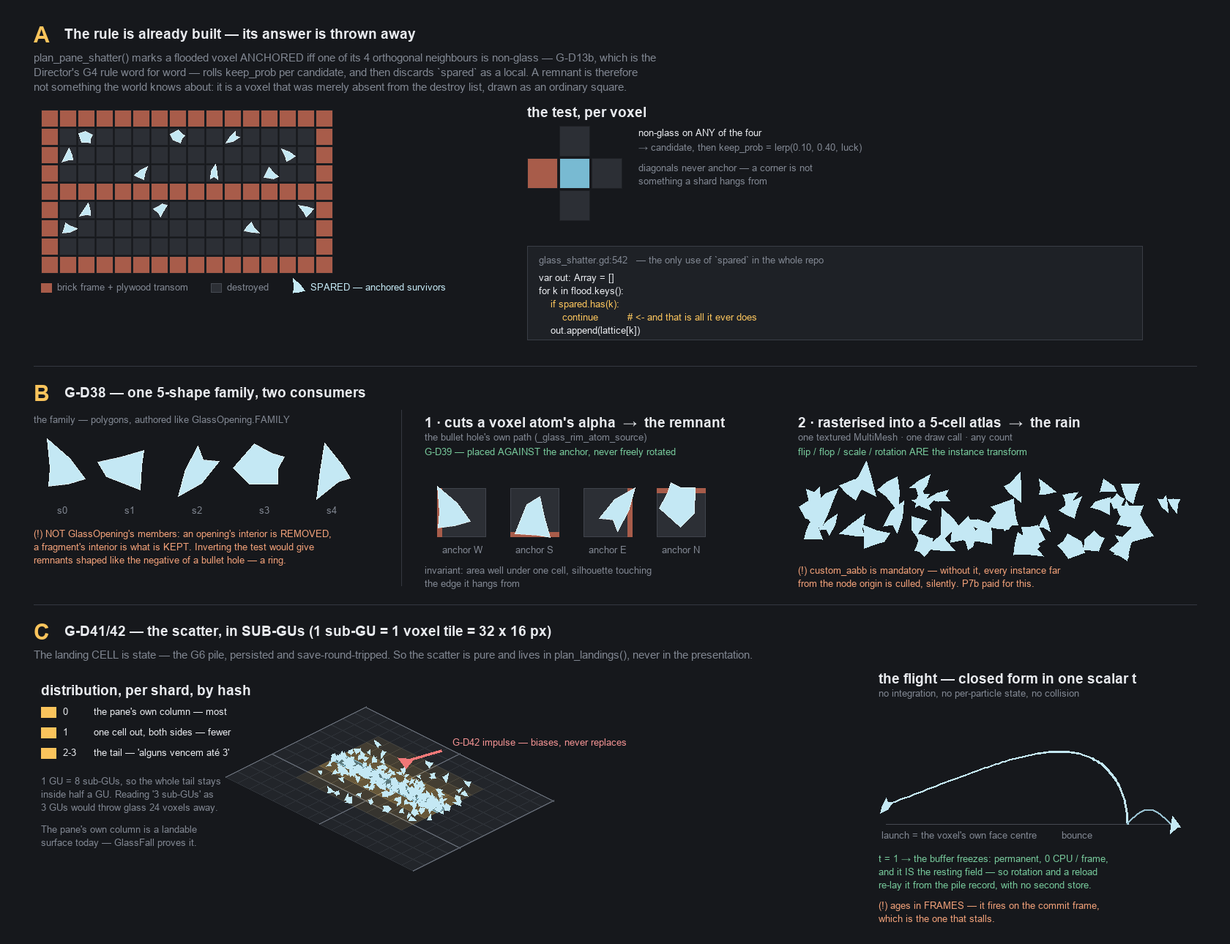
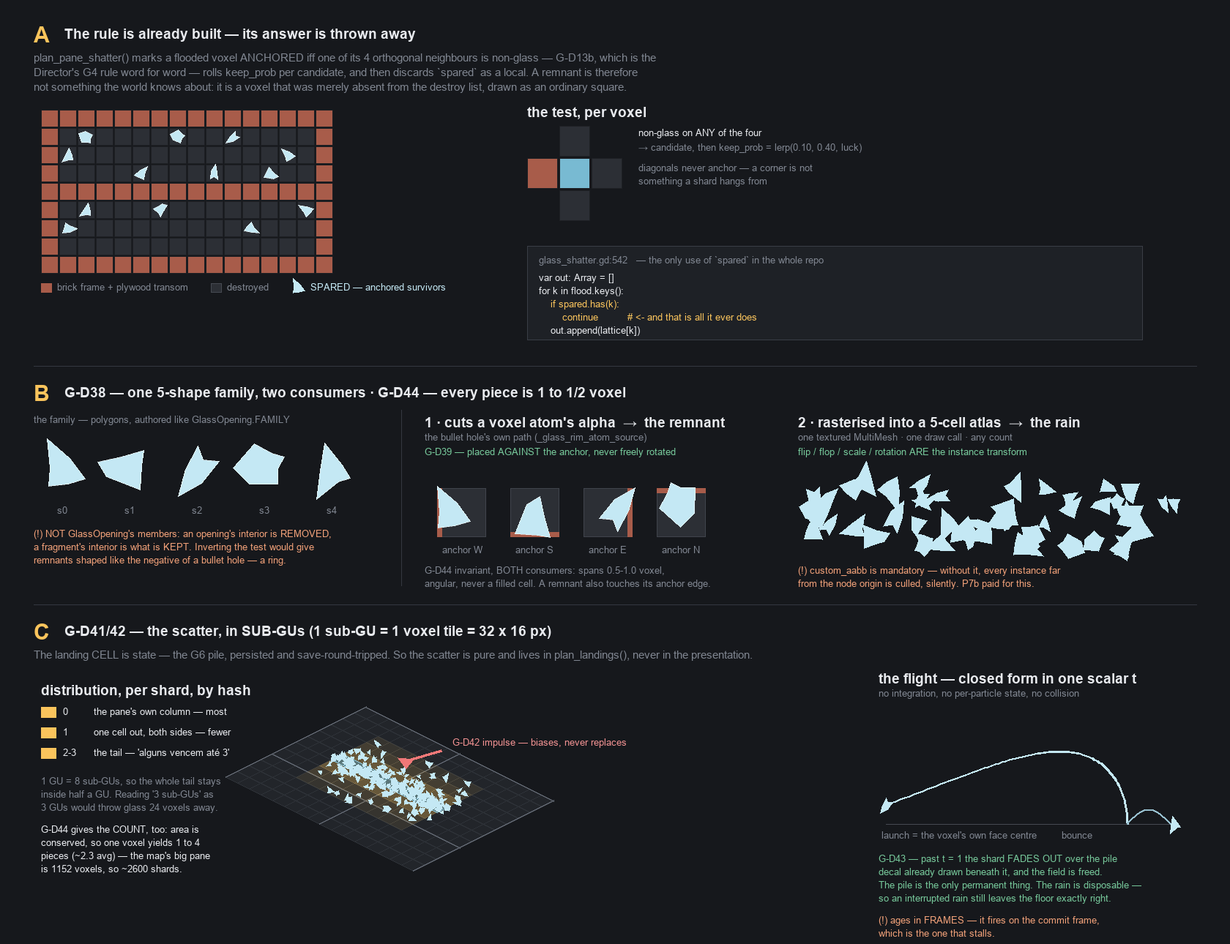
[GLASS-G4-PLAN] Glass — the pile is the only permanent thing (G-D43/G-D44)
Both of §18.7's open questions, answered by the Director the same day. Plan
only, no behaviour change.

G-D43 — "os cacos caem no chão, apagam e revelam um sprite padrão por trás".
This resolves the two-authorities question by DELETING a claim rather than
reconciling: G6's pile decal is the sole record of "there is broken glass
here", and the shard field is a transient that fades out over it and is freed.
It supersedes G-D40's persistence half — my proposal was to freeze the field
at t = 1 and re-lay it from the pile record on every rotation and reload,
which was correct but left two descriptions of one floor. The decal is drawn
UNDER the field at landing, at final opacity, so a rain cut short by a stall,
an off-screen pane or a perf budget still leaves the floor exactly right; the
rain therefore has no state consequence at all and can be skipped entirely.
What survives of G-D40 is the hash, now a testability choice: a randf()-driven
field cannot host a pixel gate, which is why glass_blast_demo has none.

G-D44 — "não precisam existir mais cacos grandes… partes com tamanhos entre 1
e 1/2 voxel". Supersedes G-D25 outright; nothing was built for it, and the
PRIMITIVE it named (an alpha mask carving a voxel's own silhouette) is not what
was dropped — that shipped as CRACK-03's rim and §18.3 reuses it. And it is not
a subtraction: conserving area, a 0.5-1.0 voxel piece means 1 to 4 pieces per
destroyed voxel (~2.3 avg, so ~2600 for the map's big pane), so the population
[…]

diff --git a/PROMPTS/PLANNING/GLASS_MASTER_PLAN.md b/PROMPTS/PLANNING/GLASS_MASTER_PLAN.md
@@ -1,6 +1,24 @@
 # GLASS MASTER PLAN — the physics of glass
 
-**Status:** 🟢 v1.39 — **G4 + THE SHARD RAIN ARE PLANNED, NOT BUILT (§18)**.
+**Status:** 🟢 v1.40 — **G4 + THE SHARD RAIN ARE PLANNED, NOT BUILT (§18), AND
+BOTH OPEN QUESTIONS ARE CLOSED (2026-09-05).**
+
+**G-D43 — the pile is the only permanent thing; the rain is disposable.** The
+shards fall, fade out over the G6 pile decal already drawn beneath them, and are
+freed. ⚠ This RESOLVES a two-authorities question by DELETING a claim, not by
+reconciling: the decal is the sole record of "there is broken glass here". ⚠ It
+also makes the whole effect safe to interrupt — a rain cut short by a stall, an
+off-screen pane or a perf budget still leaves the floor exactly right — so the
+rain can be skipped entirely, which is worth more than the permanence it replaces.
+
+**G-D44 — no big shards; every piece is between 1 and 1/2 voxel.** Supersedes
+G-D25 outright (never built, so nothing to delete; the PRIMITIVE it named still
+ships as CRACK-03's rim). ⚠ And it is not a subtraction — conserving area, a
+0.5-1.0 voxel piece means **1 to 4 pieces per destroyed voxel**, so the
+population is a consequence of the ruling instead of a knob. It also unifies the
+size law across G-D38's two consumers.
+
+Earlier in v1.39 —
 ⚠ **The finding that shapes the whole build: G4's RULE is already implemented and
 its answer is thrown away.** `plan_pane_shatter()` computes `spared` — G-D13b's
 anchored survivors, which is word for word the Director's *"voxels de vidro
@@ -12,9 +30,10 @@ The mechanism: **one 5-member polygon family with two consumers** (G-D38) — it
 cuts a voxel atom's alpha for a remnant stuck in the frame, and is rasterised
 into a 5-cell atlas for the falling shards, one textured MultiMesh, one draw
 call, where flip/flop/scale/rotation are free because they are the instance
-transform. The rain is a **pure function of G6's landing record** (G-D40), so
+transform. ~~The rain is a pure function of G6's landing record (G-D40), so
 rotation and a save reload re-lay it with no second store, and the resting field
-IS the animation at `t = 1` — permanent, zero per-frame CPU. The shockwave
+IS the animation at `t = 1` — permanent.~~ ⛔ **Superseded the same day by G-D43
+above: the rain does not rest.** The shockwave
 (G-D42) biases the LANDING CELL, which is state, so it lives in `plan_landings()`
 and not in the presentation.
 
@@ -403,7 +422,7 @@ just not the target case.
 | **G-D21** | **THE CRACK IS A FACADE SHEET RE-ANCHORED ONTO THE IMPACT — supersedes G-D20's tile mosaic.** *"essa ideia de fazer a grade e montar o mosaico, me parece que é essencialmente o que o baking system já faz […] gerar uma facade bem maior que as convencionais, com o furo baked no centro. E na hora que o tiro acerta a janela, ela tem margem pra 'sangrar' e ser reposicionada dentro da janela, cobrindo o voxel que foi acertado."* Correct, and it reduces to a SUBTRACTION: `_compute_facade_key()` already keys a voxel by `(column_in_run, level)` relative to the run's own origin, so "reposition the sheet" is offsetting those two numbers by (impact − sheet centre). No new mechanism, no new anchor unit, and — unlike a per-event mosaic — **the atoms are all composed once at load**, because the crack ART is fixed and only the OFFSET moves. A shot changes which atom each voxel picks; it mints nothing | ✅ Ratified 2026-09-01 · ⚠ **AMENDED 2026-09-02 (§8.2): the mechanism is WORLD-SPACE sampling, not the `_compute_facade_key()` atom offset.** The "reduces to a subtraction" insight survives verbatim — it is now a subtraction inside `texture(fracture, v_glass_world − impact)` in the glass shader, ~2 MB and 0 atoms, because glass never rides the baked wall path. "Mints nothing" survives; "composed once at load" becomes "not composed at all". CRACK-01 §B |
 | **G-D23** | **NO MIRROR FOR THE CRACK FAMILY, AND A PANE HAS A MAXIMUM SIZE.** *"Vamos com a 3, tira o espelho dessa família. E aí convencionamos que toda vidraça vai ter um tamanho máximo. Que é o padrão real mesmo, nenhuma janela é infinita. Precisando, usa-se um frame divisório e começa outra vidraça."* The crack sheet clamps at its edge instead of mirroring, so beyond it there is simply NO crack — the physically right answer, and the one that cannot invent a second false fracture. The maximum pane is then DERIVED from the sheet rather than invented: **64 × 32 voxels = 8 GU × 4 storeys**, which makes *"a centred hit can crack the whole pane"* a guarantee. maps/GLASS.map.json's big pane (6 GU × 3 storeys) already fits. Anything larger is authored as two panes with a divider — a **NON-GLASS panel at the middle GU, or a gap**. ⚠ A G-D9 `bands` entry does NOT split a pane (measured — see below); a banded window is still base-glass and the union-find joins it to its neighbours anyway | ✅ Ratified 2026-09-01 |
 | **G-D24** | **WHERE TWO FRACTURES CROSS, THE GLASS FALLS OUT.** *"Realisticamente falando, um segundo tiro iria quebrar regiões com cruzamentos de rachaduras, então destruir os voxels que se encontram também é uma opção."* A voxel already carrying a crack, reached by a SECOND fracture, becomes DESTROYED. This replaces the "nearest impact wins" tiebreak proposed a turn earlier and is better on every axis: physically right (crossed cracks drop the piece), free (DESTROYED is what the engine does natively — no per-voxel crack-source int, no compositing of two sheets ever), and it gives a second shot a real mechanical identity instead of a cosmetic one — the first shot crazes, the second opens a hole along the intersection. The freed voxels then fall and pile through G-D16a like any other break | ✅ Ratified 2026-09-01 |
-| **G-D25** | **A BIG SHARD IS A CUT SILHOUETTE ON WHOLE VOXELS, NOT A TEXTURE.** *(Director, 2026-09-02: "podem ter cacos maiores porém, com o tamanho de um voxel ou até mais: uma união de 2, 3, 4 voxels, em formatos diferentes, que nem precisam de textura específica, mas sim um shape recortado, nos moldes que usamos para fazer os voxels dented de teto, usando um alpha pra criar a máscara no voxel inteiro.")* The `shard` DECAL (G-D16b, delivered 2026-09-02) stays exactly what it is and the Director ratified its read the same day — **a shimmering white noise is the expected result at 16 × 20 px, not a shortfall**; it is the fine debris. What it cannot be is a big piece, because a decal is a mark ON a face and a large shard has a SILHOUETTE that is not the voxel's. So the big shards are a second, separate class: **an alpha mask cutting the whole voxel, the same mechanism as the DENTED CEILING voxel** (the Director's diagram — alpha bottom/top carves the cube's own outline rather than painting on it), spanning **1, 2, 3 or 4 voxels** in several shapes. **No per-shape texture:** the piece takes the material's ordinary glass surface and only its OUTLINE is authored, which is why the shape count is cheap. Build work belongs to G6 and is UNBUILT | ✅ Ratified 2026-09-02 · unbuilt |
+| **G-D25** | **A BIG SHARD IS A CUT SILHOUETTE ON WHOLE VOXELS, NOT A TEXTURE.** *(Director, 2026-09-02: "podem ter cacos maiores porém, com o tamanho de um voxel ou até mais: uma união de 2, 3, 4 voxels, em formatos diferentes, que nem precisam de textura específica, mas sim um shape recortado, nos moldes que usamos para fazer os voxels dented de teto, usando um alpha pra criar a máscara no voxel inteiro.")* The `shard` DECAL (G-D16b, delivered 2026-09-02) stays exactly what it is and the Director ratified its read the same day — **a shimmering white noise is the expected result at 16 × 20 px, not a shortfall**; it is the fine debris. What it cannot be is a big piece, because a decal is a mark ON a face and a large shard has a SILHOUETTE that is not the voxel's. So the big shards are a second, separate class: **an alpha mask cutting the whole voxel, the same mechanism as the DENTED CEILING voxel** (the Director's diagram — alpha bottom/top carves the cube's own outline rather than painting on it), spanning **1, 2, 3 or 4 voxels** in several shapes. **No per-shape texture:** the piece takes the material's ordinary glass surface and only its OUTLINE is authored, which is why the shape count is cheap. Build work belongs to G6 and is UNBUILT | ⛔ **SUPERSEDED 2026-09-05 by G-D44** — *"não precisam existir mais cacos grandes"*. Never built, so nothing to delete; the PRIMITIVE it named (an alpha mask carving a voxel's own silhouette) survives and is what CRACK-03/G-D31 shipped |
 | **G-D15** | **ARMORED GLASS (`glass_armored`, purple) — resists common shots; when breached, usually shatters entirely at once, leaving many individual shards.** ⚠ **Special rifle case:** a rifle round may pierce a SINGLE voxel without shattering (treated as a weak hit) — this PRIMES the pane, and the next shot of ANY type auto-shatters the whole thing. `pane_primed` is a per-pane flag, checkpoint-scoped | ✅ Ratified 2026-08-31 · build after this doc is signed off |
 | **G-D16** | **Glass is a family of tinted behaviour classes, not new geometry.** All variants share G1's rendering and differ only in a tint (`base_color`) and a `glass_class`: `glass` (blue, BREAKABLE) · `glass_armored` (purple, ARMORED, G-D15) · `glass_screen_{green,red,amber}` (dark terminal tone) which is **INDESTRUCTIBLE** (control interfaces — takes a crack decal, never breaks, and STOPS the round: *"trinca mas o tiro para"*) or **BREAKABLE** (TVs, circuits, news panels) per placement | ✅ Ratified 2026-08-31 |
 | **G-D17** | **A screen is a glass voxel over a BLACK PLASTIC voxel.** *"O voxel de vidro fica na frente de voxels pretos de PLÁSTICO (a implementar — fura [não atravessa] ou derrete), de forma que nesses voxels pretos vamos pintar as imagens e textos posteriormente, e o vidro vai criar o efeito de brilho por cima."* New material **`plastic`** (black): a round DRILLS it (a hole, but the round does NOT pass through — unlike glass) or fire MELTS it. Images/text painted onto the plastic later; the glass in front adds the G1 sheen. Belongs in `MATERIALS_MASTER_PLAN` | ✅ Ratified 2026-08-31 · `plastic` + the paint layer are deferred |
@@ -413,9 +432,11 @@ just not the target case.
 | **G-D36** | **A CRAZED PANE STILL LETS SIGHT THROUGH — WITH A LARGE PENALTY.** *(Director, 2026-09-05, answering §16.4: "vidro rachado ainda permite a visão, mas com uma penalidade grande.")* This is the `LIGHT_MASTER_PLAN` split doing its job: the pane keeps TRANSMITTING (G1's blend is untouched, the agent and the guard still see each other's side), and what degrades is TACTICAL visibility — the detection term through a crazed pane, not the pixels. ⚠ **It is a penalty, never a block**, which is the whole point: a binary "craze = opaque" would let one grenade delete a guard's sightline and turn the craze into a smoke wall, which is not what glass does. The magnitude is a balance number and belongs with G-D8's detection work, not with the art | ✅ Ratified 2026-09-05 |
 | **G-D38** | **ONE 5-MEMBER POLYGON FAMILY, TWO CONSUMERS.** *(Director, 2026-09-05: the remnant is built "nos mesmos moldes que usamos para fazer as aberturas das balas"; the debris is "só umas 5 shapes, onde vamos duplicar muitas vezes, dar flip, flop, scale up, scale down, rotation".)* Those are the SAME five shapes: the polygon cuts a voxel atom's alpha for a remnant stuck in the frame, and is rasterised once into a 5-cell atlas for the falling shards. ⚠ **It cannot be `GlassOpening` itself** — an opening's INTERIOR is removed and a fragment's interior is what is KEPT, so reusing those members with the test inverted gives remnants shaped like the negative of a bullet hole (a ring, or a cell with a star-shaped bite), the opposite of "irregulares e angulosos". New family, same authoring language. ⚠ **`MIN_VALLEY` does NOT carry over**: it exists so an opening swallows the cell it is centred on, and a remnant's invariant is the mirror image — area well under one cell, silhouette touching the edge it hangs from | 🟡 Planned 2026-09-05, §18.2 |
 | **G-D39** | **A REMNANT IS ORIENTED BY ITS ANCHOR, NEVER FREELY ROTATED.** The four-neighbour test that decided the voxel survives already says which side is solid; the shape is placed against it, and the pick key is `(shape, anchor_mask)`. A jagged fragment placed without regard to its anchor floats in the middle of the opening with its solid corner facing away from the brick — the detail that makes the feature read as decoration instead of physics. A two-sided (frame corner) anchor gets its own authored member rather than a rotation of a one-sided one | 🟡 Planned 2026-09-05, §18.3 |
-| **G-D40** | **THE RAIN IS A PURE FUNCTION OF G6'S LANDING RECORD, NOT A SECOND STORE.** Every shard's shape, flips, scale, spin, sub-cell offset and trajectory hash off `Vector3i(base_x, base_y, level)` + index. Consequences, all free: rotation re-lays the identical field; a save reload re-lays it; the ANIMATION and the RESTING field are one function at `t < 1` and `t = 1`; and "there is broken glass here" keeps exactly ONE authority. Answers the Director's *"se puder cair e ficar ótimo"* with **yes** — the frozen buffer is one draw call and zero per-frame CPU, not a fade-and-free | 🟡 Planned 2026-09-05, §18.4 |
+| **G-D40** | ⛔ **ITS PERSISTENCE HALF IS SUPERSEDED BY G-D43 (2026-09-05)** — the rain does not rest, so nothing about it needs to survive a rotation or a save. The DETERMINISM survives on its own smaller merit: a hash-driven field can be pixel-gated and a `randf()` one cannot, which is why `glass_blast_demo` is not pixel-deterministic today. Kept as written below for the record. ~~**THE RAIN IS A PURE FUNCTION OF G6'S LANDING RECORD, NOT A SECOND STORE.**~~ Every shard's shape, flips, scale, spin, sub-cell offset and trajectory hash off `Vector3i(base_x, base_y, level)` + index. Consequences, all free: rotation re-lays the identical field; a save reload re-lays it; the ANIMATION and the RESTING field are one function at `t < 1` and `t = 1`; and "there is broken glass here" keeps exactly ONE authority. Answers the Director's *"se puder cair e ficar ótimo"* with **yes** — the frozen buffer is one draw call and zero per-frame CPU, not a fade-and-free | 🟡 Planned 2026-09-05, §18.4 |
 | **G-D41** | **SUB-GU = ONE VOXEL CELL, AND EVERY DISTANCE IN THE BRIEF IS IN THOSE.** *(Director, 2026-09-05: "sub-GU is a Godot tile, where 1 voxel belongs. This is precisely the depth of the glass: 1 voxel.")* So the scatter is: most shards on the pane's own column, fewer one cell out, a tail reaching three — perpendicular to the pane BOTH ways and along the run. ⚠ Reading "3 sub-GUs" as 3 GUs would throw glass 24 voxels across the room. ⚠ **The landing cell is STATE** (the G6 pile, persisted and save-round-tripped), so the scatter is pure and lives in `plan_landings()`, never in the presentation layer | 🟡 Planned 2026-09-05, §18.5 |
 | **G-D42** | **THE SHOCKWAVE BIASES THE SCATTER, IT DOES NOT REPLACE IT.** *(Director, 2026-09-05: "uma força vetor que desloca todo o conjunto de cacos mais pra longe, baseado na força e na distância da granada… descrevendo uma suave parábola durante a queda".)* `plan_landings()` takes `{dir, strength, lift}` derived from the bomb's own `ring_multipliers` falloff — no second force model. At zero impulse G-D41's table is symmetric; a near grenade skews it downrange, further and wider. ⚠ **`lift` will be UNEXERCISED BY ANY REAL MAP**: G-D16c/d is unbuilt, CEILING glass renders opaque and has no horizontal `pane_id`, so no skylight can shatter yet. It is authored with a synthetic test and an explicit unbuilt-consumer note rather than quietly, so it does not become the fourth feature this project built and never triggered | 🟡 Planned 2026-09-05, §18.5 |
+| **G-D43** | **THE PILE IS THE ONLY PERMANENT THING; THE RAIN IS DISPOSABLE.** *(Director, 2026-09-05: "vamos padronizar a pilha no chão. Os cacos caem no chão, apagam e revelam um sprite padrão por trás.")* This RESOLVES §18.7(a) by removing a claim rather than reconciling two — the standing lesson. G6's pile decal is the sole authority for "there is broken glass here"; the shard field falls, fades out over it, and is freed. ⚠ **The decal is spawned UNDER the field at the moment of landing, at its final opacity, not faded in** — *"por trás"*, and it means a rain cut short by a stall, an off-screen pane or a perf budget still leaves the floor exactly right. **The rain therefore has NO state consequence at all** and can be skipped entirely, which is worth more than it looks with performance as the standing priority. ⚠ Consequence for G-D40: nothing about the field has to survive a rotation or a reload, so its hash-determinism is now a TESTABILITY choice (a pixel gate needs it) rather than a correctness one | ✅ Ratified 2026-09-05 |
+| **G-D44** | **NO BIG SHARDS — EVERY PIECE IS BETWEEN 1 AND 1/2 VOXEL.** *(Director, 2026-09-05: "não precisam existir mais cacos grandes, quando houver uma explosão que quebra o vidro, os cacos se subdividem todos em partes com tamanhos entre 1 e 1/2 voxel.")* Supersedes G-D25's 1-4-voxel cut silhouettes outright. **And it hands the population a law instead of a guess:** area is conserved, a piece of edge 0.5-1.0 has area 0.25-1.0, so one voxel yields **1 to 4 pieces**, ~2.3 on average — the map's 6 GU x 3 storey pane is 1 152 voxels and therefore ~2 600 shards, not an arbitrary `shards_per_voxel`. ⚠ **It also unifies the size law across G-D38's two consumers**: the remnant in the frame is a piece of the same band, so "well under one cell" is replaced by **0.5-1.0 voxel, angular, never a filled cell** — one rule, both consumers. On screen a shard is 16-32 px wide, which is large enough to read as a shape rather than as the noise the `decal_shard_glass_*` art is | ✅ Ratified 2026-09-05 |
 | **G-D37** | **THE COARSE CRAZE IS ITS OWN MESH, SIMILAR TO THE FINE ONE — NOT THE FINE ONE RESCALED.** *(Director, 2026-09-05, answering §16.4: "o rachado mais grosso precisa de uma malha diferente, mas pode ser parecida.")* §16.4 offered "a different mesh or the same one at a bigger scale" and noted the second was nearly free; the Director took the first, and the reason is visible in the reference photos — a coarse craze is not a fine craze zoomed in, its polygons are fewer AND blockier, and the line weight does not grow with them. **What "parecida" buys is that it is one generator with a second parameter set**, not a second vocabulary: same Voronoi body, same wrapping seed rule, same stroke, different cell count. ⚠ **The count of steps is TWO as a floor** (fine + coarse), which is the minimum reading of a ruling phrased about "o mais grosso"; a third middle step is the same generator a third time and stays the Director's, to be decided by looking at B-3's output rather than in advance | ✅ Ratified 2026-09-05 |
 | **G-D35** | **THE BLAST FAMILY IS A TILEABLE CRAZE MESH ON TWO AXES, PERFORATED PER VOXEL.** *(Director, 2026-09-04, with two references of shattered tempered glass: "as explosões ou vão destruir a vidraça toda, ou vão deixar rachado com maior ou menor intensidade, dependendo da distância […] conseguimos criar padrões mais e menos destruídos (usando o mesmo mecanismo de cortar as bordas dos voxels nas beiradas), e mais e menos rachados (granularidade) […] queremos que alguns decals sejam perfurados aleatoriamente em alguns voxels […] como são mais regulares, esses tipos de rachadura podem ser espelhados/repetidos com o método de azulejos, só mudando os buracos de lugar."* Four things follow, and each one is a departure from the bullet classes rather than a variation on them. **(1) NO CENTRE and no impact** — this is G-D29's field, so it is not radial and has no origin to be anchored to; the sheet is a MESH of small polygons, the read of the reference photos. **(2) TWO AXES, not one intensity dial** — *destruction* (how much of the pane is gone, expressed through the opening/shard-rim mechanism already built) and *granularity* (how fine the craze mesh is), and distance drives them together. **(3) PERFORATION IS PER VOXEL AND RANDOM**, not part of the art: the sheet is uniform, and individual voxels are punched through it. **(4) IT TILES.** A centred sheet cannot repeat; a uniform mesh can, so one page mirrored/repeated covers a whole pane and the variation comes from moving the HOLES, not from more art. ⚠ This is what makes the class cheap where the bullet classes were expensive — and it is also why `SPAN_RATIO`, the page centre and the origin gate in `check_decal.py` all fail to apply to it. 🔒 The reference photos are read for VOCABULARY only; delivery stays procedural (D57, and the same discipline §8's watermarked comps already imposed) | ✅ Ratified 2026-09-04 · UNBUILT |
 | **G-D29** | **`blast` IS 3 PATTERNS × H/V FLIP, HASHED PER PANEL.** *(Director, 2026-09-02: "vamos usar um conjunto de padrões nos painéis, digamos 3, que podem ser escolhidos aleatoriamente e flipados vertical e horizontal. Assim teremos uma variação legal, sem consumir quase nada a mais de memória.")* Three textures, twelve apparent variants. The choice is NOT new machinery: it comes from the B4 FNV-1a the destruction stack already uses (`FacadeSampler._fnv1a_hash` over `pane_id` + panel index), which makes it deterministic and replay-safe by the same rule as every other per-cell choice in the project — and the same hash yields the two flip bits for free. This is also the answer to *"stretch one sprite / tile a field / scatter several"*: none of the three; a small pool placed per panel | ✅ Ratified 2026-09-02 |
@@ -3390,9 +3411,12 @@ the opposite of *"formatos bem irregulares e angulosos"*. New file,
 would be a silent defect.** That constant exists because an opening must swallow
 the cell it is centred on (a destroyed voxel cannot keep its corners). A remnant
 is the reverse case: it must NOT fill its cell, or it reads as the square it is
-replacing. Its invariant is the mirror image — **every member's area is well
-under one cell and its silhouette touches at least one cell edge** (the edge it
-hangs from). Pinned by a selftest, not by inspection.
+replacing.
+
+**G-D44 then gave both consumers ONE size law** — *"partes com tamanhos entre 1 e
+1/2 voxel"* — so the invariant is: **every member spans 0.5 to 1.0 voxel, is
+angular, and is never a filled cell**, plus, for a remnant, its silhouette
+touches the edge it hangs from. Pinned by a selftest, not by inspection.
 
 ### 18.3 PIECE 1 — THE REMNANT IN THE FRAME (G4 proper)
 
@@ -3440,19 +3464,37 @@ a wrong estimate here lands on the detonation's worst frame.
 
 ### 18.4 PIECE 2 — THE RAIN (G6b)
 
-**G-D40 — the rain is a PURE FUNCTION of the landing record, not a second store.**
+**G-D43 — the rain is DISPOSABLE, and the pile is the only permanent thing.**
 
-This is the decision that makes everything else fall out. G6 already records
-`Vector3i(base_x, base_y, level) -> count` and persists it. If every shard's
-shape, flip, scale, spin, offset within the cell and trajectory is derived by
-hash from *that* key plus its index, then:
+> Director, 2026-09-05: *"vamos padronizar a pilha no chão. Os cacos caem no
+> chão, apagam e revelam um sprite padrão por trás."*
 
-* rotation re-lays the identical field with no extra state;
-* a save reload re-lays it too, for free;
-* the ANIMATION and the RESTING field are the same function, evaluated at
-  `t < 1` and at `t = 1`;
-* and there is exactly one authority for "there is broken glass here", which is
-  the rule this project keeps re-learning (*two authorities — remove one*).
+⚠ **This supersedes G-D40's persistence half, and it is the better answer.** I
+had proposed freezing the field at `t = 1` and re-laying it from the pile record
+on every rotation and reload — correct, but it left TWO descriptions of one floor
+(the individual pieces and the pile decal under them) and asked the Director to
+choose. He chose by deleting a claim, which is what this project keeps
+re-learning: **G6's pile decal is the sole authority for "there is broken glass
+here"**, and the shard field is a transient that fades out over it and is freed.
+
+⚠ **The decal is spawned UNDER the field at the moment of landing, at its final
+opacity — not faded in.** *"por trás"* is literal: it is already there. And that
+is what makes the whole effect safe to interrupt — a rain cut short by a stall,
+by an off-screen pane, or by a perf budget still leaves the floor exactly right.
+
+**The rain therefore has no state consequence at all, and can be skipped
+entirely.** With performance as the standing priority that is worth more than the
+permanence it replaces.
+
+What survives of G-D40 is only the hash: a field driven by `randf()` cannot host
+a pixel gate (which is exactly why `glass_blast_demo` is not pixel-deterministic
+today), and one driven by FNV-1a on the landing key can. That is a testability
+choice now, not a correctness one, and it is free.
+
+**Assumption stated, not guessed:** *"um sprite padrão"* is read as *the pile is
+a standard sprite* rather than *reduce the three shipped `decal_shard_glass_*`
+variants to one*. The three are delivered, ratified art and the hash pick between
+them costs nothing; say the word and it becomes one.
 
 **The renderer.** One `MultiMeshInstance2D` holding a textured unit quad,
 `use_colors` on for per-instance alpha, `use_custom_data` on to carry the atlas
@@ -3489,14 +3531,20 @@ spin    theta(t) = theta0 + omega * min(t, t_land), frozen on landing
 ```
 
 `ease_out` is the Director's *"tentando ajustar o ease"* knob and is a `var`
-(Rule 1). At `t = 1` the buffer is the resting field, written once and never
-touched again: **one draw call, zero per-frame CPU, permanent** — which answers
-his *"se puder cair e ficar ótimo"* with yes rather than with a fade.
+(Rule 1). Past `t = 1` the shard holds for a beat and then fades, over the pile
+decal that is already drawn beneath it (G-D43), and the field is freed.
 
-**Population.** `shards_per_voxel` (2-3) x destroyed voxels, capped. The map's
-6 GU x 3 storey pane is 1 152 voxels, so an uncapped 3x is ~3 500 instances; the
-cap exists because instance buffer writes are per-frame during flight, not
-because of the resting field.
+**Population — G-D44 gives it a law instead of a guess.** *"os cacos se
+subdividem todos em partes com tamanhos entre 1 e 1/2 voxel"*: area is conserved,
+a piece of edge 0.5-1.0 has area 0.25-1.0, so **one voxel yields 1 to 4 pieces**,
+~2.3 on average. The map's 6 GU x 3 storey pane is 1 152 voxels and therefore
+~2 600 shards — a number that falls out of the ruling rather than out of a
+`shards_per_voxel` knob. On screen each is 16-32 px wide, large enough to read as
+a shape rather than as the fine noise the `decal_shard_glass_*` art already is.
+
+A cap still exists, and it is now honest about what it is for: instance buffer
+writes are per-frame DURING FLIGHT, and under G-D43 the flight is the only cost
+there is. Dropping shards under budget is free, because none of them are state.
 
 ### 18.5 PIECE 3 — WHERE THEY LAND IS STATE, AND THE SHOCKWAVE WRITES IT
 
@@ -3549,33 +3597,42 @@ never triggered.
    most on the pane's own cell, less on the second, from the DebrisOverlay dust
    mechanism that already exists (`CircleField`, additive, `add_dust`), not a new
    particle system;
-6. the field freezes; the G6 pile record is what makes it permanent.
+6. the shards fade out over the pile decal already drawn beneath them, and the
+   field is freed (G-D43). The pile is what stays.
 
-### 18.7 ⚠ TWO THINGS THAT ARE THE DIRECTOR'S CALL, NOT MINE
+### ✅ 18.7 BOTH OPEN QUESTIONS WERE ANSWERED THE SAME DAY (2026-09-05)
 
-**(a) Does the G6 pile DECAL survive?** Once the resting shard field draws the
-individual pieces, the pile decal underneath is a second statement about the same
-cell. The three shipped `decal_shard_glass_*.png` are the fine-debris read the
-Director ratified on 2026-09-02 (*a shimmering white noise is the expected result
-at 16 x 20 px*), so the honest options are: keep it as the DUST UNDER the shapes
-(fine debris the shard shapes are too big to represent), or delete it. Both are
-defensible; keeping both without deciding is the failure mode this project has a
-memory about.
+**(a) Does the G6 pile decal survive? — YES, AND IT IS THE ONLY THING THAT DOES.**
+*"Vamos padronizar a pilha no chão. Os cacos caem no chão, apagam e revelam um
+sprite padrão por trás."* → **G-D43**. The question was "two descriptions of one
+floor, which one goes"; the answer removes the other one. §18.4 carries it.
 
-**(b) G-D25's big shards.** *"cacos maiores, com o tamanho de um voxel ou até
-mais: uma união de 2, 3, 4 voxels"*, as an alpha mask cutting whole voxels. That
-is a THIRD consumer of the same polygon family and it is genuinely separate work.
-It is not in this plan's scope and is left open.
+**(b) G-D25's big shards? — DELETED, not deferred.** *"Não precisam existir mais
+cacos grandes, quando houver uma explosão que quebra o vidro, os cacos se
+subdividem todos em partes com tamanhos entre 1 e 1/2 voxel."* → **G-D44**, which
+supersedes G-D25 outright.
+
+⚠ **Nothing had been built for G-D25, so there is nothing to delete — and that
+is the whole report, deliberately.** The register row is marked SUPERSEDED rather
+than removed, because the PRIMITIVE it named (an alpha mask carving a voxel's own
+silhouette, the dented-ceiling mechanism) is not what was dropped: that primitive
+shipped as CRACK-03's shard rim and is what §18.3 reuses for the remnant. What
+was dropped is only the 1-4-voxel SIZE CLASS.
+
+⚠ **And (b) is not a subtraction — it is where the population number comes
+from.** See §18.4: conserving area, a 0.5-1.0 voxel piece means 1 to 4 pieces per
+destroyed voxel, so the count is a consequence of the ruling instead of a knob I
+would have had to invent and defend.
 
 ### 18.8 TASK ORDER
 
 | | task | gate |
 |---|---|---|
-| **G4-1** | `glass_shard_shapes.gd` — the 5-member family + the "under one cell, touches an edge" invariant | selftest, and a true-size render of all 5 x 4 orientations |
+| **G4-1** | `glass_shard_shapes.gd` — the 5-member family + G-D44's "0.5-1.0 voxel, angular, never a filled cell" invariant | selftest, and a true-size render of all 5 x 4 orientations |
 | **G4-2** | `plan_pane_shatter()` returns `spared`; Delta + room + SaveState + respawn chain | RED first: prove no remnant is reported today |
 | **G4-3** | the cut remnant atom, oriented by `anchor_mask`; minting measured | `INFILTRAITOR_TILESET_STATS`, real GLASS-map capture on W1-W4 |
 | **G6b-1** | the shard atlas + the textured MultiMesh field, `custom_aabb` set | a 0-instance-culled control, the P7b defect's own gate |
-| **G6b-2** | the closed-form trajectory, aged in FRAMES; bounce; freeze at rest | filmstrip (`build_filmstrip.py`), which is the only instrument that can see a transient |
+| **G6b-2** | the closed-form trajectory, aged in FRAMES; bounce; fade-out over the pile decal, then free (G-D43) | filmstrip (`build_filmstrip.py`), which is the only instrument that can see a transient — and a CONTROL that kills the rain mid-flight and asserts the floor is identical, which is G-D43's own claim |
 | **G6b-3** | the dust puff on landing | capture |
 | **G4-4** | `plan_landings()` takes the impulse; the scatter table; `lift` authored + synthetic test | `glass_fall_selftest`, extended; the real pile counts on the GLASS map |
 
